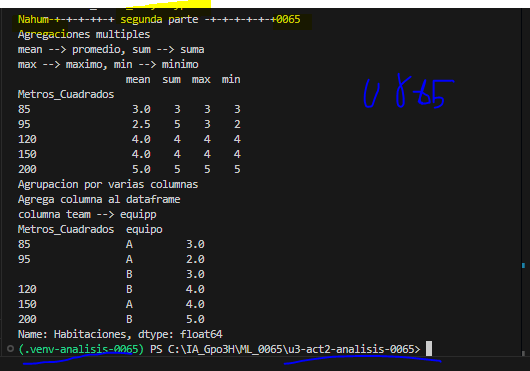
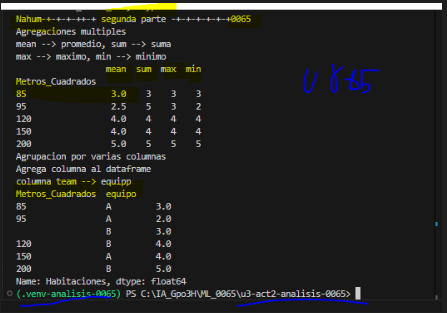
Add files via upload

diff --git a/leeme_2parte.md b/leeme_2parte.md
@@ -1,0 +1,3 @@
+## resultado Nahum flores 2da parte
+## NC 0065
+![alt text](image.png)
